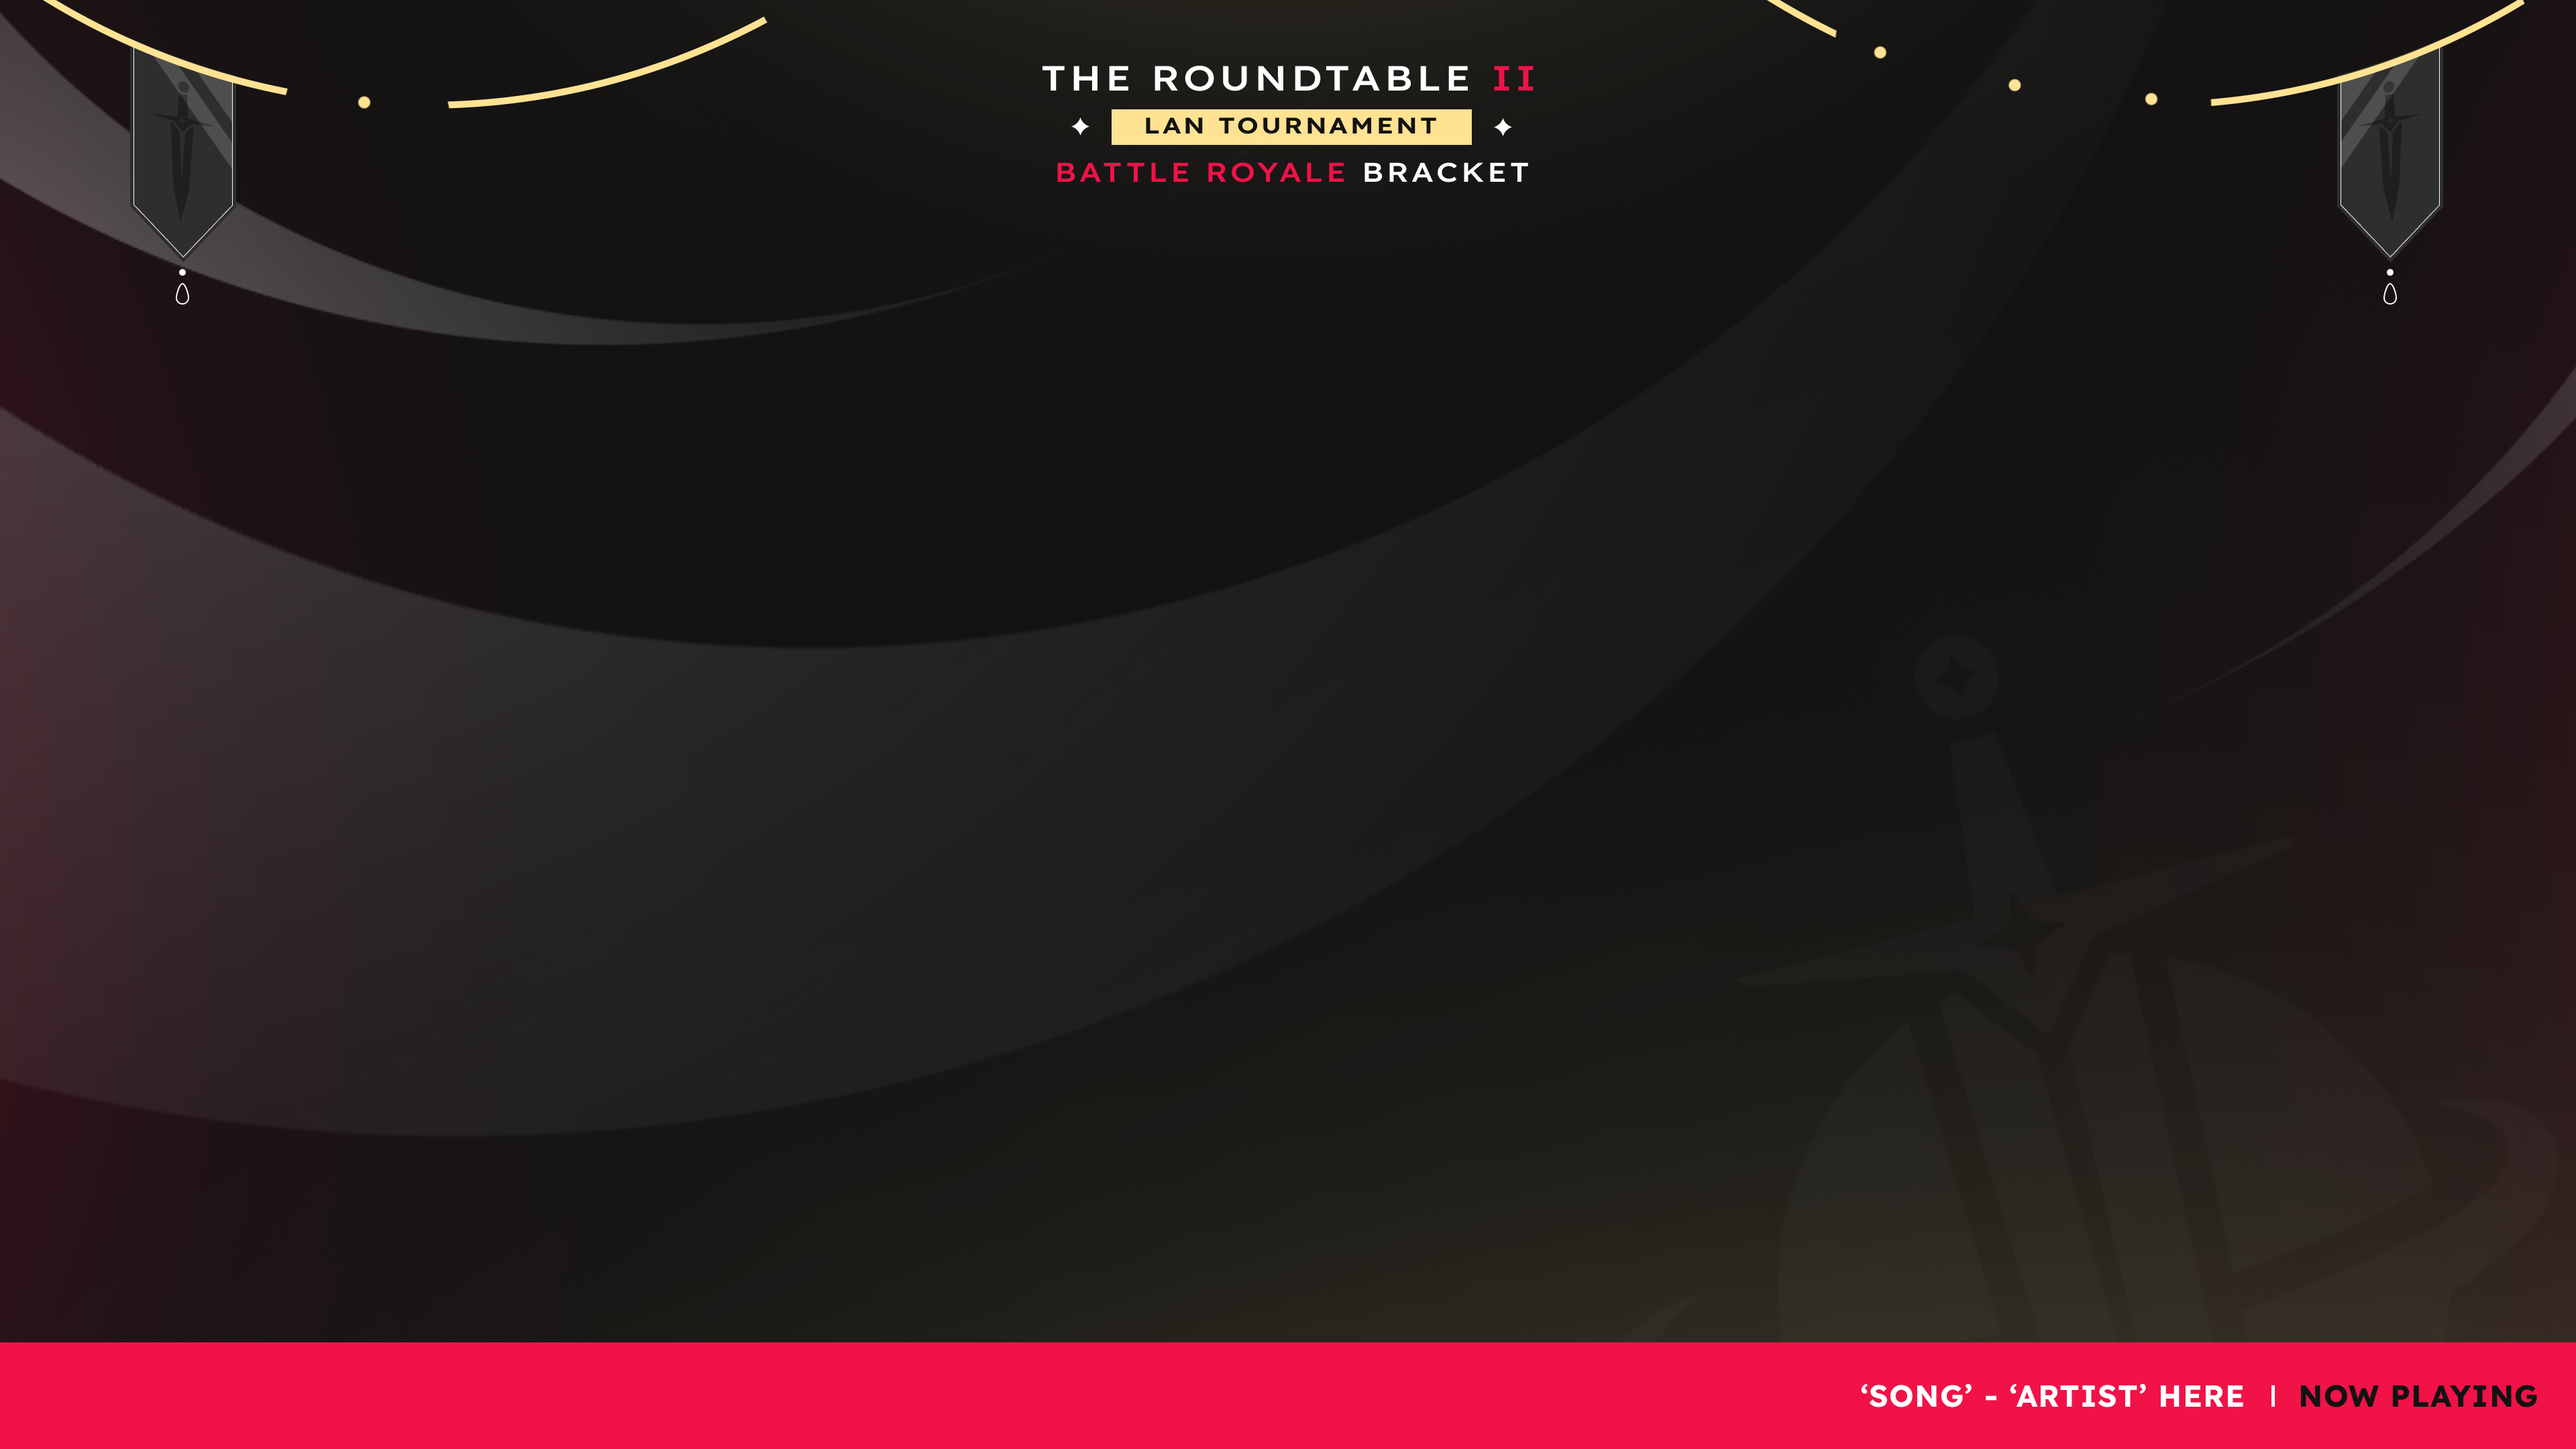
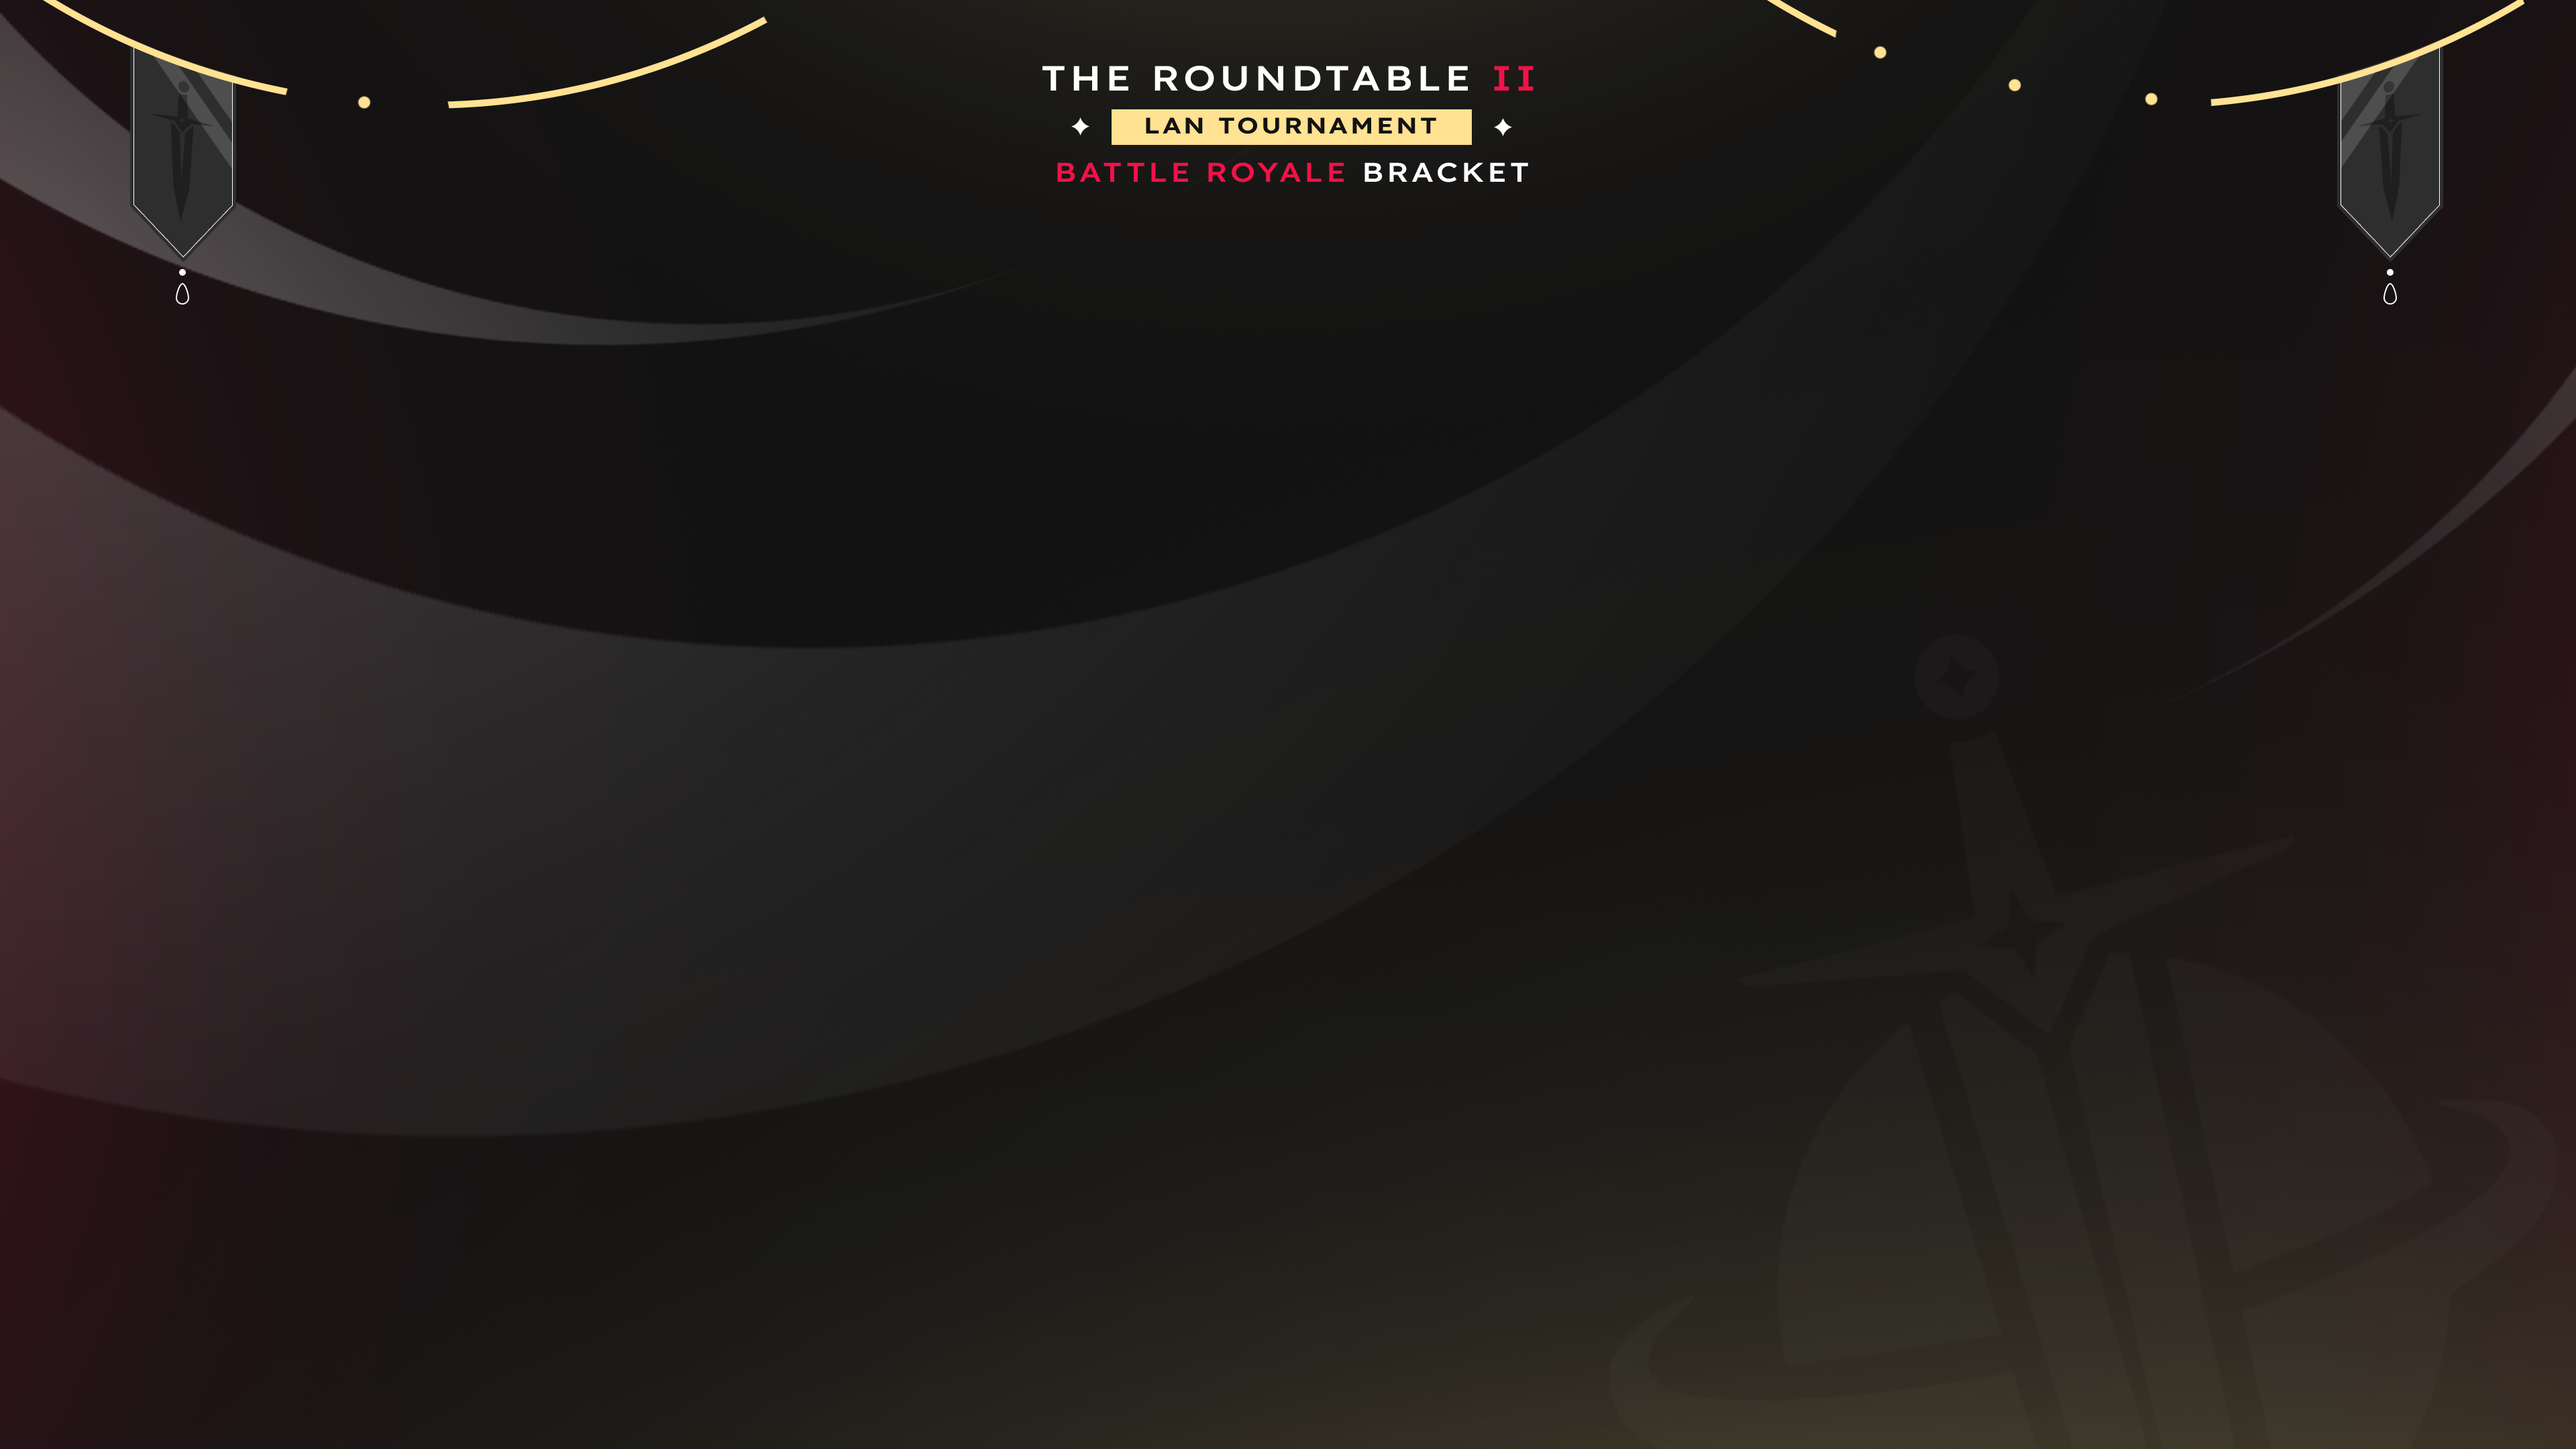
Complete background and styling

Changed region(s): [[0.0, 0.8995, 1.0, 1.0]]

diff --git a/br-brackets/css/style.css b/br-brackets/css/style.css
@@ -7,6 +7,8 @@
 
     --borderRed: rgba(241,18,72,1);
     --textGold: rgba(255,226,146,1);
+
+    --bottomRed: rgba(241,18,72,1);
 }
 
 #main {
@@ -110,8 +112,14 @@
     font-family: 'Lexend', sans-serif; font-size: 24px;
     font-weight: 600;
     line-height: 78px;
+    background-color: var(--bottomRed);
 }
 #nowPlayingText { position: absolute; right: 28px; }
+#nowPlayingDivider { 
+    position: absolute; right: 223px;
+    line-height: 73px;
+    color: white;
+}
 #nowPlayingSongArtist {
     position: absolute; right: 247px;
     color: white;

diff --git a/br-brackets/index.html b/br-brackets/index.html
@@ -189,6 +189,7 @@
         <!-- Now Playing Section -->
         <section id="nowPlayingSection">
             <div id="nowPlayingSongArtist">'SONG' - 'ARTIST' HERE</div>
+            <div id="nowPlayingDivider">|</div>
             <div id="nowPlayingText">NOW PLAYING</div>
         </section>
     </div>
